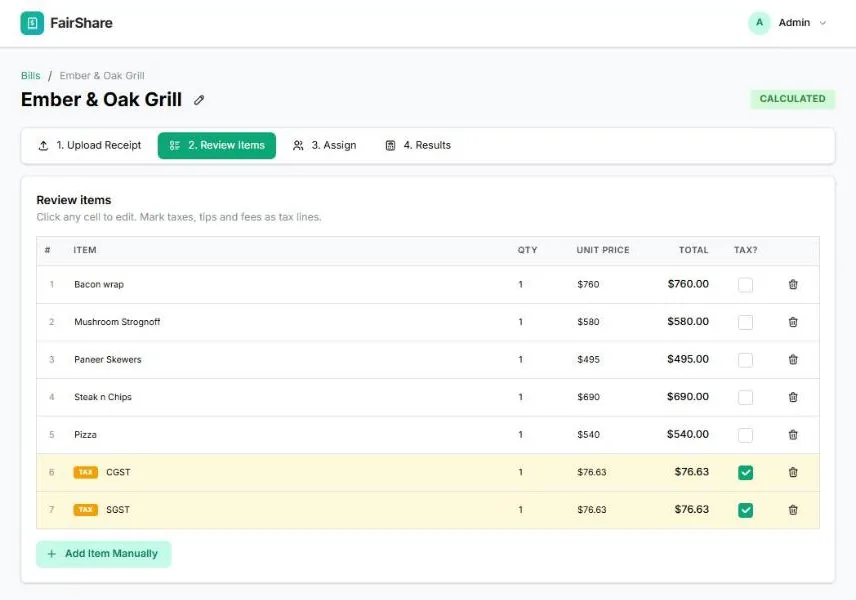
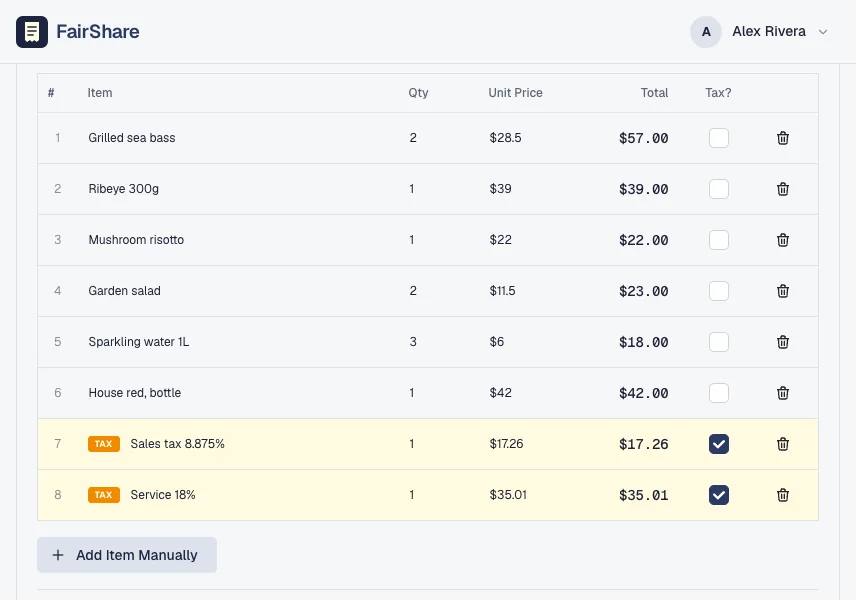
Update project screenshots to the redesigned apps
- Replace every SolarOps, SA Tax Bot, YT Analyzer and FairShare screenshot
  with the redesigned UI, captured at the same sizes with demo or dummy data.
- Update alt text and captions that described the old screens (pie chart,
  GST lines, receipt totals, audit entry count, cited line numbers).
- Gleaner: add screenshots of the change feed and scraper editor.
- SolarOps and Gleaner code is now public: link the repositories.

diff --git a/index.html b/index.html
@@ -97,7 +97,7 @@ TOTAL            Rs 3218.26</pre>
     </div>
     <ul class="rows">
       <li><a href="projects/fairshare">
-        <span class="row-media"><span class="frame-bar" aria-hidden="true"><i></i><i></i><i></i><span>localhost:8083 / bills / review</span></span><img src="img/fairshare-review.webp" width="856" height="600" alt="FairShare review table of items read from a restaurant bill, with GST lines marked as tax."></span>
+        <span class="row-media"><span class="frame-bar" aria-hidden="true"><i></i><i></i><i></i><span>localhost:8083 / invoices / review</span></span><img src="img/fairshare-review.webp" width="856" height="600" alt="FairShare review table of items read from a restaurant bill, with the sales tax and service lines marked as tax."></span>
         <span class="row-text">
           <span class="row-name" style="view-transition-name:t-fairshare">FairShare</span>
           <span class="row-desc">Photograph an invoice or receipt and OCR plus an LLM pull out every line item. Track what’s unpaid, and split shared bills item by item, exact to the cent.</span>
@@ -106,7 +106,7 @@ TOTAL            Rs 3218.26</pre>
         </span>
       </a></li>
       <li><a href="projects/sa-tax-bot">
-        <span class="row-media"><span class="frame-bar" aria-hidden="true"><i></i><i></i><i></i><span>localhost:8081 / chat</span></span><img src="img/taxbot-source.webp" width="1568" height="744" alt="SA Tax Bot answer with a citation opened to the source passage in Section 11 of the Act."></span>
+        <span class="row-media"><span class="frame-bar" aria-hidden="true"><i></i><i></i><i></i><span>localhost:8081 / chat</span></span><img src="img/taxbot-source.webp" width="1568" height="744" alt="SA Tax Bot answer with a citation opened to the source passage in Section 11(a) of the Act."></span>
         <span class="row-text">
           <span class="row-name" style="view-transition-name:t-taxbot">SA Tax Bot</span>
           <span class="row-desc">A chatbot for South Africa’s Income Tax Act. A local model answers from retrieved passages, and every point links to the exact lines it came from.</span>
@@ -115,7 +115,7 @@ TOTAL            Rs 3218.26</pre>
         </span>
       </a></li>
       <li><a href="projects/yt-analyzer">
-        <span class="row-media"><span class="frame-bar" aria-hidden="true"><i></i><i></i><i></i><span>localhost:8084 / overview</span></span><img src="img/yt-sentiment.webp" width="1568" height="698" alt="YT Analyzer sentiment charts comparing comment sentiment with the video transcript’s tone."></span>
+        <span class="row-media"><span class="frame-bar" aria-hidden="true"><i></i><i></i><i></i><span>localhost:8084 / overview</span></span><img src="img/yt-sentiment.webp" width="1568" height="698" alt="YT Analyzer sentiment levels bar and a chart comparing comment sentiment with the video transcript’s tone."></span>
         <span class="row-text">
           <span class="row-name" style="view-transition-name:t-yt">YT Analyzer</span>
           <span class="row-desc">What a video’s comment section actually thinks: sentiment, summaries, advice for the creator and a chat over the comments, all on local models.</span>

diff --git a/projects/fairshare.html b/projects/fairshare.html
@@ -35,8 +35,8 @@
 
   <div class="lead-shot">
     <figure class="narrow">
-      <button class="shot" type="button"><img src="../img/fairshare-review.webp" width="856" height="600" alt="Review table of items extracted from a restaurant bill, with two GST lines highlighted and marked as tax."></button>
-      <figcaption>Items read from a restaurant bill. Each cell is editable, and the two GST lines were detected as tax.</figcaption>
+      <button class="shot" type="button"><img src="../img/fairshare-review.webp" width="856" height="600" alt="Review table of items extracted from a restaurant bill, with the sales tax and service lines highlighted and marked as tax."></button>
+      <figcaption>Items read from a restaurant bill. Each cell is editable, and the sales tax and service lines are marked as tax.</figcaption>
     </figure>
   </div>
 
@@ -62,8 +62,8 @@
       </ol>
       <div class="shots two">
         <figure>
-          <button class="shot" type="button"><img src="../img/fairshare-upload.webp" width="856" height="744" loading="lazy" alt="Upload step with a receipt image being read."></button>
-          <figcaption>Uploading a receipt.</figcaption>
+          <button class="shot" type="button"><img src="../img/fairshare-upload.webp" width="856" height="744" loading="lazy" alt="Scan tab with a restaurant receipt uploaded and its eight items extracted."></button>
+          <figcaption>A scanned receipt and the items read from it.</figcaption>
         </figure>
         <figure>
           <button class="shot" type="button"><img src="../img/fairshare-assign.webp" width="856" height="744" loading="lazy" alt="Assign step where each line item is given to one or more people."></button>
@@ -114,8 +114,8 @@
       </div>
       <div class="shots">
         <figure class="narrow">
-          <button class="shot" type="button"><img src="../img/fairshare-results.webp" width="856" height="680" loading="lazy" alt="Results showing three people's shares with item breakdowns, adding up to a grand total of $3218.26, above the uploaded receipt."></button>
-          <figcaption>Three shares with their item breakdowns, adding up exactly to the grand total, above the receipt they came from.</figcaption>
+          <button class="shot" type="button"><img src="../img/fairshare-results.webp" width="856" height="680" loading="lazy" alt="Results showing four people's shares with item breakdowns, adding up to a grand total of $253.27."></button>
+          <figcaption>Four shares with their item breakdowns, adding up exactly to the grand total.</figcaption>
         </figure>
       </div>
     </div>

diff --git a/projects/gleaner.html b/projects/gleaner.html
@@ -29,7 +29,7 @@
       <div><dt>What it is</dt><dd>Scraping and monitoring platform</dd></div>
       <div><dt>Built with</dt><dd>FastAPI, Playwright, local LLM via Ollama</dd></div>
       <div><dt>Runs with</dt><dd>Docker Compose and Ollama, with six demo scrapers</dd></div>
-      <div><dt>Code</dt><dd>Private for now</dd></div>
+      <div><dt>Code</dt><dd><a href="https://github.com/Nihar-Thampi/Gleaner">github.com/Nihar-Thampi/Gleaner</a></dd></div>
     </dl>
   </section>
 
@@ -57,6 +57,19 @@
       </div>
       <figcaption>Illustration of the change feed, drawn for this page with sample data shaped like the built-in practice store.</figcaption>
     </figure>
+  </div>
+
+  <div class="lead-shot">
+    <div class="shots two">
+      <figure>
+        <button class="shot" type="button"><img src="../img/gleaner-changes.webp" width="1568" height="744" loading="lazy" alt="Gleaner's change feed: each changed item marked with a coloured gutter and its field-level differences, such as a price falling from 200.99 to 173.99."></button>
+        <figcaption>The real change feed for the practice store, with field-level differences for each item.</figcaption>
+      </figure>
+      <figure>
+        <button class="shot" type="button"><img src="../img/gleaner-editor.webp" width="1568" height="744" loading="lazy" alt="Scraper editor with the start URL, selectors and a live preview table of the items the scraper would extract."></button>
+        <figcaption>The scraper editor, with a live preview of what the selectors extract.</figcaption>
+      </figure>
+    </div>
   </div>
 
   <section class="sec" aria-labelledby="s-why">

diff --git a/projects/yt-analyzer.html b/projects/yt-analyzer.html
@@ -35,7 +35,7 @@
 
   <div class="lead-shot">
     <figure>
-      <button class="shot" type="button"><img src="../img/yt-sentiment.webp" width="1568" height="698" alt="Sentiment dashboard for a video: a pie chart of positive and negative comments, and a chart comparing comment sentiment with the transcript's tone."></button>
+      <button class="shot" type="button"><img src="../img/yt-sentiment.webp" width="1568" height="698" alt="Sentiment overview for a video: a levels bar of positive, neutral and negative comments, and a chart comparing comment sentiment with the transcript’s tone."></button>
       <figcaption>Comment sentiment for a video, compared with the tone of the video’s own transcript.</figcaption>
     </figure>
   </div>
@@ -66,7 +66,7 @@
           <figcaption>Audience sentiment against the transcript, the transcript summary and the comment summary.</figcaption>
         </figure>
         <figure>
-          <button class="shot" type="button"><img src="../img/yt-chat.webp" width="1568" height="698" loading="lazy" alt="Chat tab answering a question about what viewers say about learning to code with AI tools."></button>
+          <button class="shot" type="button"><img src="../img/yt-chat.webp" width="1568" height="698" loading="lazy" alt="Chat tab answering a question about what viewers want in a follow-up video, with earlier chats listed beside it."></button>
           <figcaption>A question answered from the comments themselves.</figcaption>
         </figure>
       </div>

diff --git a/projects/solarops.html b/projects/solarops.html
@@ -29,7 +29,7 @@
       <div><dt>What it is</dt><dd>Multi-tenant web app</dd></div>
       <div><dt>Built with</dt><dd>FastAPI, PostgreSQL, local LLM via Ollama</dd></div>
       <div><dt>Runs with</dt><dd>Docker Compose and Ollama, seeded with demo companies</dd></div>
-      <div><dt>Code</dt><dd>Private for now</dd></div>
+      <div><dt>Code</dt><dd><a href="https://github.com/Nihar-Thampi/SolarOps">github.com/Nihar-Thampi/SolarOps</a></dd></div>
     </dl>
   </section>
 
@@ -137,8 +137,8 @@
           <figcaption>Feedback insights across 81 reviews, above every review tagged with sentiment and themes.</figcaption>
         </figure>
         <figure>
-          <button class="shot" type="button"><img src="../img/solarops-audit.webp" width="1568" height="744" loading="lazy" alt="Audit log confirming all 409 entries match their hash chain."></button>
-          <figcaption>The audit log after Verify integrity: all 409 entries match their hash chain.</figcaption>
+          <button class="shot" type="button"><img src="../img/solarops-audit.webp" width="1568" height="744" loading="lazy" alt="Audit log confirming all 413 entries match their hash chain."></button>
+          <figcaption>The audit log after Verify integrity: all 413 entries match their hash chain.</figcaption>
         </figure>
       </div>
     </div>

diff --git a/projects/sa-tax-bot.html b/projects/sa-tax-bot.html
@@ -36,7 +36,7 @@
   <div class="lead-shot">
     <figure>
       <button class="shot" type="button"><img src="../img/taxbot-source.webp" width="1568" height="744" alt="An answer about deductible trade expenses with one citation opened, showing the source passage from Section 11 with its line numbers and Gazette page."></button>
-      <figcaption>An answer about trade deductions with one citation open: Section 11, lines 1894 to 1896 of the Act, Gazette page 59.</figcaption>
+      <figcaption>An answer about trade deductions with one citation open: Section 11(a), lines 1887 to 1889 of the Act, Gazette page 59.</figcaption>
     </figure>
   </div>
 
@@ -61,7 +61,7 @@
       </ol>
       <div class="shots two">
         <figure>
-          <button class="shot" type="button"><img src="../img/taxbot-answer.webp" width="1568" height="744" loading="lazy" alt="Chat answer listing deductible trade expenses under Section 11, each point followed by a citation."></button>
+          <button class="shot" type="button"><img src="../img/taxbot-answer.webp" width="1568" height="744" loading="lazy" alt="Chat answer about deductible trade expenses, each point followed by a section citation."></button>
           <figcaption>Each point of the answer carries its own citation.</figcaption>
         </figure>
         <figure>
